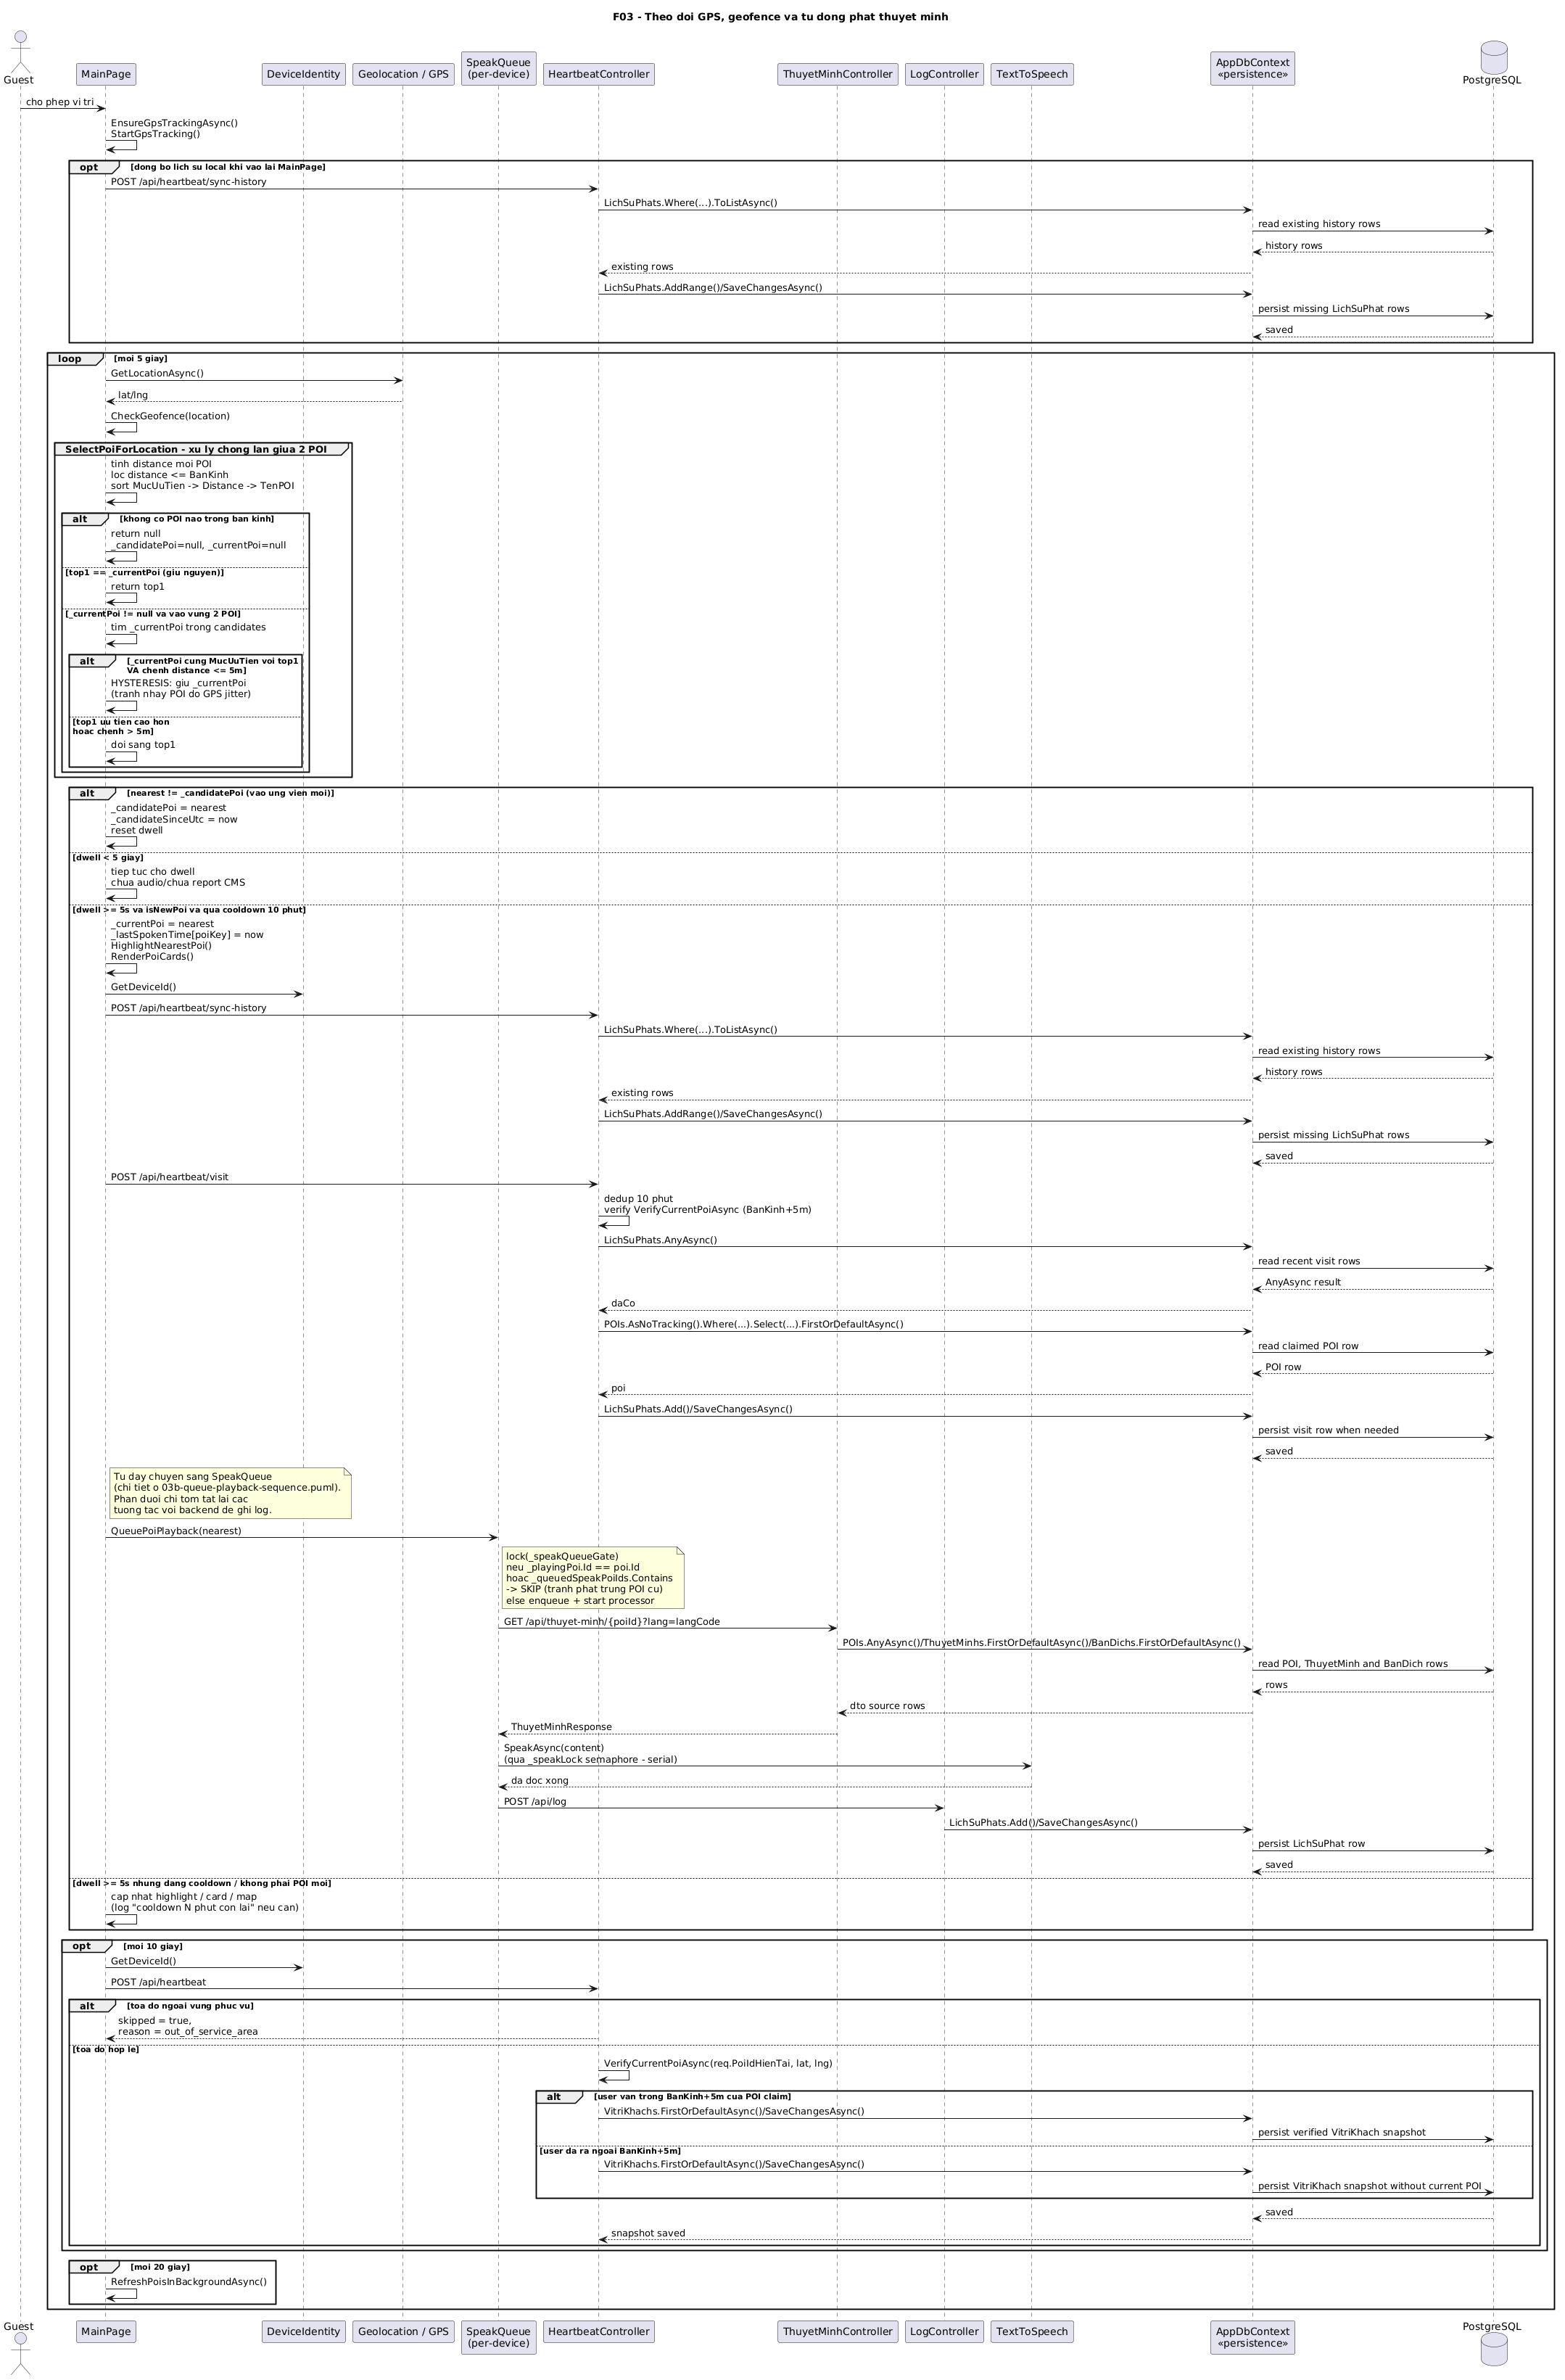
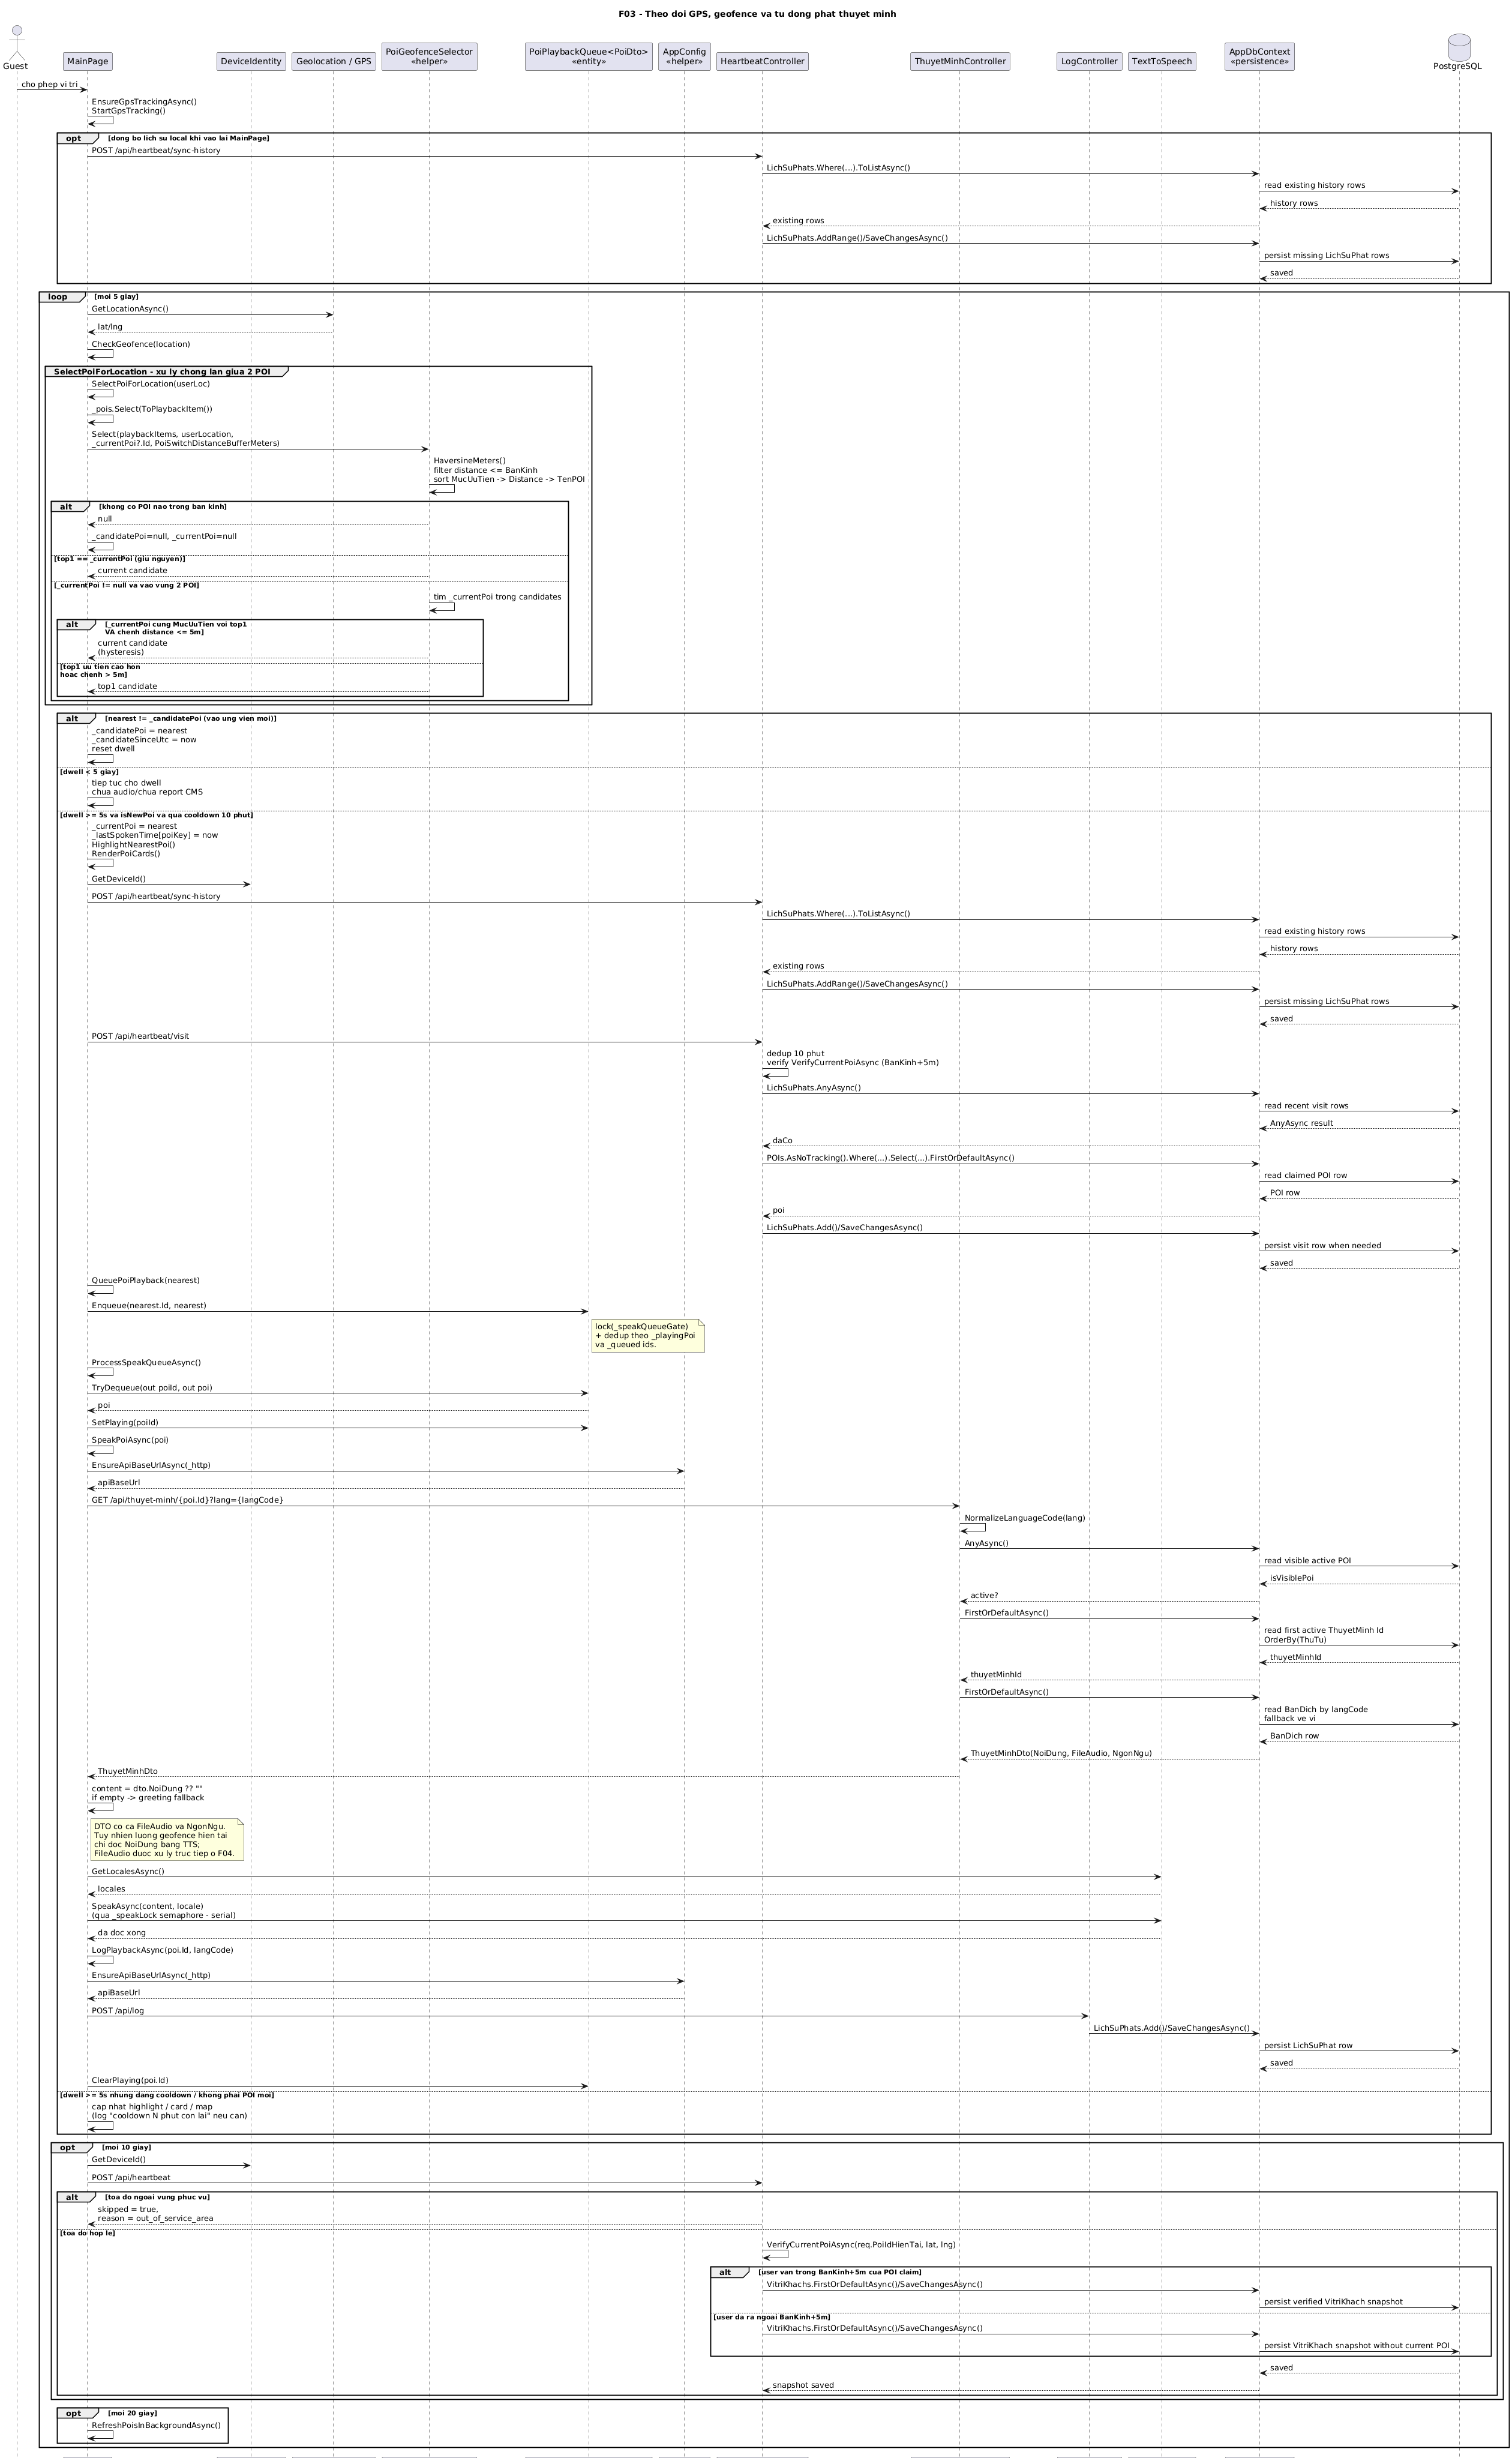
PRD

diff --git a/docs/gen_prd.py b/docs/gen_prd.py
@@ -32,6 +32,9 @@ OUT_DOCX = BASE_DIR / "PRD_VinhKhanhTour.docx"
 PRODUCT_VERSION = "1.5.3"
 DOC_VERSION = "2.3"
 DOC_DATE = datetime.now().strftime("%d/%m/%Y")
+STUDENT_NAME = "Võ Quốc Bảo"
+STUDENT_ID = "3123411031"
+STUDENT_CLASS = "DCT123C5"
 
 
 # ──────────────────────────────────────────────────────────────────────────────
@@ -498,37 +501,39 @@ FEATURES = [
     },
     {
         "id": "F03",
-        "title": "Theo dõi GPS, geofence và tự động phát thuyết minh",
-        "actor": "Khách du lịch",
+        "title": "Theo doi GPS, geofence va tu dong phat thuyet minh",
+        "actor": "Khach du lich",
         "status": "VERIFIED",
         "activity_image": "03-geofence-audio-activity.png",
         "sequence_image": "03-geofence-audio-sequence.png",
         "function_text": (
-            "Nhóm sơ đồ này mô tả phần lõi vận hành theo vị trí: lấy GPS, gửi heartbeat, xác định POI gần nhất, "
-            "ghi nhận visit và tự động phát thuyết minh khi người dùng đi vào vùng geofence. "
-            "Bao gồm xử lý đặc biệt khi khách đứng giữa 2 POI (sort theo MucUuTien → distance → tên + hysteresis 5m)."
+            "Nhom so do nay mo ta phan loi van hanh theo vi tri: lay GPS, gui heartbeat, xac dinh POI gan nhat, "
+            "ghi nhan visit va tu dong phat thuyet minh khi nguoi dung di vao vung geofence. "
+            "Bao gom xu ly dac biet khi khach dung giua 2 POI qua `PoiGeofenceSelector.Select()` (sort theo MucUuTien -> DistanceMeters -> TenPOI + hysteresis 5m)."
         ),
         "capabilities": [
-            "Lấy vị trí định kỳ và cập nhật trạng thái người dùng trên bản đồ.",
-            "Gửi heartbeat vị trí về server để CMS biết thiết bị nào đang online.",
-            "Xác định geofence theo bán kính từng POI và chống phát lặp bằng cooldown 10 phút.",
-            "Hysteresis 5m + dwell 5s tránh nháy POI khi GPS jitter giữa 2 quán liền kề.",
-            "Tự động đọc nội dung thuyết minh và ghi log phát audio.",
+            "Lay vi tri dinh ky va cap nhat trang thai nguoi dung tren ban do." ,
+            "Gui heartbeat vi tri ve server de CMS biet thiet bi nao dang online." ,
+            "Xac dinh geofence theo ban kinh tung POI va chong phat lap bang cooldown 10 phut." ,
+            "Hysteresis 5m + dwell 5s tranh nhay POI khi GPS jitter giua 2 quan lien ke; priority selection di qua `PoiGeofenceSelector.Select()`." ,
+            "Tu dong lay thuyet minh qua API, chon BanDich theo langCode, doc bang TTS va ghi log phat audio." ,
         ],
         "implementation": [
             ["UI (boundary)", "`MainPage.xaml` (GPS status, map WebView, now-playing banner, POI highlight)."],
-            ["Page/Control", "`EnsureGpsTrackingAsync`, `StartGpsTracking`, `CheckGeofence`, `SelectPoiForLocation`, `QueuePoiPlayback`, `ProcessSpeakQueueAsync`, `SpeakPoiAsync`, `SendHeartbeatAsync`, `RecordPoiVisitAsync`, `LogPlaybackAsync`."],
-            ["Domain/helper", "`Location.CalculateDistance`, `_lastSpokenTime`, `_speakQueue`, `_queuedSpeakPoiIds`, `_speakLock`, `AppText.LanguageCode`, `TextToSpeech.Default`."],
+            ["Page/Control", "`EnsureGpsTrackingAsync`, `StartGpsTracking`, `CheckGeofence`, `SelectPoiForLocation`, `ToPlaybackItem`, `QueuePoiPlayback`, `ProcessSpeakQueueAsync`, `SpeakPoiAsync`, `SendHeartbeatAsync`, `RecordPoiVisitAsync`, `LogPlaybackAsync`."],
+            ["Domain/helper", "`PoiGeofenceSelector.Select`, `PoiPlaybackQueue<PoiDto>`, `_lastSpokenTime`, `_speakLock`, `AppText.LanguageCode`, `AppConfig.EnsureApiBaseUrlAsync`, `TextToSpeech.Default.GetLocalesAsync`."],
             ["Controller", "`HeartbeatController.SendHeartbeat`, `RecordVisit`, `ThuyetMinhController.GetByPoi`, `LogController.Post`."],
-            ["Persistence", "`Preferences` (visited ids) + `AppDbContext` -> PostgreSQL bảng `vitrikhach`, `lichsuphat`, `thuyetminh`, `bandich`."],
+            ["Persistence", "`Preferences` (visited ids) + `AppDbContext` -> PostgreSQL bang `vitrikhach`, `lichsuphat`, `thuyetminh`, `bandich`."],
         ],
         "operation": [
-            "MainPage gọi EnsureGpsTrackingAsync(), xin quyền vị trí và bắt đầu vòng lặp GPS.",
-            "App lấy vị trí mỗi 5 giây bằng Geolocation.Default.GetLocationAsync().",
-            "SelectPoiForLocation() sort candidate theo MucUuTien → DistanceMeters → TenPOI; nếu POI hiện tại cùng priority và chỉ chênh ≤ 5m thì giữ.",
-            "Heartbeat được gửi mỗi 10 giây dựa trên HEARTBEAT_EVERY_TICKS = 2; refresh POI nền mỗi 20 giây dựa trên POI_REFRESH_EVERY_TICKS = 4.",
-            "Khi phát hiện người dùng vừa đi vào một POI mới và đã qua cooldown, app ghi visited local, POST /api/heartbeat/sync-history, POST /api/heartbeat/visit rồi cập nhật UI.",
-            "Sau đó app lấy thuyết minh qua /api/thuyet-minh/{poiId}, đọc bằng TTS và POST /api/log để lưu lịch sử phát.",
+            "MainPage goi EnsureGpsTrackingAsync(), xin quyen vi tri va bat dau vong lap GPS." ,
+            "App lay vi tri moi 5 giay bang Geolocation.Default.GetLocationAsync()." ,
+            "SelectPoiForLocation() chuyen `_pois` thanh `PoiPlaybackItem`, roi `PoiGeofenceSelector.Select()` tinh `HaversineMeters`, loc POI co `distance <= BanKinh`, sort theo `MucUuTien -> DistanceMeters -> TenPOI`; neu POI hien tai cung priority va chi chenh <= 5m thi giu bang hysteresis." ,
+            "Heartbeat duoc gui moi 10 giay dua tren HEARTBEAT_EVERY_TICKS = 2; refresh POI nen moi 20 giay dua tren POI_REFRESH_EVERY_TICKS = 4." ,
+            "Khi phat hien nguoi dung vua di vao mot POI moi va da qua cooldown, app ghi visited local, POST /api/heartbeat/sync-history, POST /api/heartbeat/visit roi cap nhat UI." ,
+            "Sau do `SpeakPoiAsync()` lay `langCode = AppText.LanguageCode`, goi `AppConfig.EnsureApiBaseUrlAsync()`, roi GET `/api/thuyet-minh/{poiId}?lang={langCode}`. API chuan hoa ngon ngu, kiem tra POI con hoat dong, lay `ThuyetMinh` dau tien dang bat theo `ThuTu`, roi lay `BanDich` uu tien `langCode` va fallback ve `vi`." ,
+            "App dung `ThuyetMinhResponse.NoiDung` de phat bang `TextToSpeech.Default.SpeakAsync()`. Neu `NoiDung` rong thi dung cau chao fallback theo ngon ngu. Truong `FileAudio` co duoc tra ve nhung luong geofence hien chua dung; phat file audio truc tiep nam o F04." ,
+            "Sau khi doc xong, app goi `LogPlaybackAsync()` de POST `/api/log` voi `Nguon = GPS`." ,
         ],
     },
     {
@@ -940,6 +945,9 @@ def build_cover(doc):
               [
                   ["Sản phẩm", f"VinhKhanhTour v{PRODUCT_VERSION}"],
                   ["Tài liệu", f"PRD v{DOC_VERSION}"],
+                  ["Sinh viên", STUDENT_NAME],
+                  ["Mã số sinh viên", STUDENT_ID],
+                  ["Lớp", STUDENT_CLASS],
                   ["Ngày phát hành", DOC_DATE],
                   ["Phạm vi", "MAUI App + REST API + CMS Razor Pages"],
                   ["Nguồn sơ đồ", "docs/diagrams/*.puml (PlantUML)"],

diff --git a/docs/diagrams/render_plantuml.py b/docs/diagrams/render_plantuml.py
@@ -1,0 +1,16 @@
+import zlib
+import base64
+from pathlib import Path
+import urllib.request
+
+puml_path = Path('docs/diagrams/03-geofence-audio-sequence.puml')
+output_path = Path('docs/diagrams/03-geofence-audio-sequence.png')
+text = puml_path.read_text(encoding='utf-8')
+compressed = zlib.compress(text.encode('utf-8'), 9)[2:-4]
+encoded = base64.b64encode(compressed).decode('ascii').translate(str.maketrans('+/=', '-_.'))
+url = 'https://www.plantuml.com/plantuml/png/' + encoded
+print('Requesting:', url)
+with urllib.request.urlopen(url, timeout=30) as response:
+    data = response.read()
+output_path.write_bytes(data)
+print('Saved', output_path)

diff --git a/docs/PRD_VinhKhanhTour.md b/docs/PRD_VinhKhanhTour.md
@@ -2,6 +2,8 @@
 
 > **Phiên bản:** 1.5 | **Ngày:** 14/05/2026
 >
+> **Sinh viên:** Võ Quốc Bảo | **Mã số sinh viên:** 3123411031 | **Lớp:** DCT123C5
+>
 > **Lưu ý phiên bản 1.5:** Bổ sung mục báo cáo kiểm thử tự động sau khi chạy `scripts/run-all-tests.ps1` ngày 14/05/2026: API integration, CMS Playwright E2E và MAUI Appium contract đều pass; Appium real-device được ghi nhận là opt-in và đang skip khi chưa bật emulator/device.
 >
 > **Lưu ý phiên bản 1.4:** Đồng bộ PRD với baseline kiểm thử mới: solution có thư mục `tests/`, API/CMS hỗ trợ `WebApplicationFactory<Program>` qua `public partial class Program`, bổ sung smoke test cho API/CMS/MAUI Appium và script `scripts/run-all-tests.ps1`.
@@ -211,38 +213,41 @@ taikhoan ── hoadon
 
 ---
 
-### F03 – Tự động phát thuyết minh (Geofence + Audio)
+### F03 - Tu dong phat thuyet minh (Geofence + Audio)
 
-**Mô tả:** Khi khách bước vào vùng bán kính của quán và đứng đủ thời gian xác nhận, app tự động đưa POI vào hàng đợi phát thuyết minh.
+**Mo ta:** Khi khach buoc vao vung ban kinh cua quan va dung du thoi gian xac nhan, app tu dong dua POI vao hang doi phat thuyet minh.
 **Diagrams:** `docs/diagrams/03-geofence-audio-activity.puml`, `03-geofence-audio-sequence.puml`; sub-flow queue: `03b-queue-playback-activity.puml`, `03b-queue-playback-sequence.puml`.
 
-**Phân lớp triển khai:**
+**Phan lop trien khai:**
 
-| Lớp | Thành phần |
+| Lop | Thanh phan |
 |---|---|
 | UI (boundary) | `MainPage.xaml` (GPS status, map WebView, now-playing banner, POI highlight) |
-| Page/Control | `EnsureGpsTrackingAsync`, `StartGpsTracking`, `CheckGeofence`, `SelectPoiForLocation`, `QueuePoiPlayback`, `ProcessSpeakQueueAsync`, `SpeakPoiAsync`, `SendHeartbeatAsync`, `RecordPoiVisitAsync`, `LogPlaybackAsync` |
-| Domain/helper | `Location.CalculateDistance`, `_lastSpokenTime`, `_speakQueue`, `_queuedSpeakPoiIds`, `_speakLock`, `AppText.LanguageCode`, `TextToSpeech.Default` |
+| Page/Control | `EnsureGpsTrackingAsync`, `StartGpsTracking`, `CheckGeofence`, `SelectPoiForLocation`, `ToPlaybackItem`, `QueuePoiPlayback`, `ProcessSpeakQueueAsync`, `SpeakPoiAsync`, `SendHeartbeatAsync`, `RecordPoiVisitAsync`, `LogPlaybackAsync` |
+| Domain/helper | `PoiGeofenceSelector.Select`, `PoiPlaybackQueue<PoiDto>`, `_lastSpokenTime`, `_speakLock`, `AppText.LanguageCode`, `AppConfig.EnsureApiBaseUrlAsync`, `TextToSpeech.Default.GetLocalesAsync` |
 | Controller (control) | `HeartbeatController.SendHeartbeat` (`POST /api/heartbeat`), `RecordVisit` (`POST /api/heartbeat/visit`), `ThuyetMinhController.GetByPoi`, `LogController.Post` (`POST /api/log`) |
-| Persistence | `Preferences` (visited ids) + `AppDbContext` → PostgreSQL bảng `vitrikhach`, `lichsuphat`, `thuyetminh`, `bandich` |
+| Persistence | `Preferences` (visited ids) + `AppDbContext` -> PostgreSQL bang `vitrikhach`, `lichsuphat`, `thuyetminh`, `bandich` |
 
-**Luồng geofence:**
-1. `EnsureGpsTrackingAsync()` xin `Permissions.LocationWhenInUse`, sau đó gọi `StartGpsTracking()`.
-2. `StartGpsTracking()` lấy GPS mỗi 5 giây bằng `Geolocation.Default.GetLocationAsync()`.
-3. `CheckGeofence()` gọi `SelectPoiForLocation()` để chọn candidate trong bán kính, ưu tiên `MucUuTien`, sau đó khoảng cách và tên.
-4. POI phải dwell đủ `DwellSecondsToConfirm` trước khi được commit thành `_currentPoi`.
-5. Nếu là POI mới và qua cooldown, app ghi visited local, gọi `RecordPoiVisitAsync()`, cập nhật UI và `QueuePoiPlayback()`.
-6. `ProcessSpeakQueueAsync()` gọi `SpeakPoiAsync()` tuần tự; `SpeakPoiAsync()` lấy nội dung qua `/api/thuyet-minh/{poiId}?lang=...`, đọc TTS và gọi `LogPlaybackAsync()`.
+**Luong geofence:**
+1. `EnsureGpsTrackingAsync()` xin `Permissions.LocationWhenInUse`, sau do goi `StartGpsTracking()`.
+2. `StartGpsTracking()` lay GPS moi 5 giay bang `Geolocation.Default.GetLocationAsync()`.
+3. `CheckGeofence()` goi `SelectPoiForLocation()`. Ham nay chuyen `_pois` thanh `PoiPlaybackItem`, roi `PoiGeofenceSelector.Select()` tinh `HaversineMeters`, loc cac POI co `distance <= BanKinh`, sau do sort theo `MucUuTien -> DistanceMeters -> TenPOI`.
+4. POI phai dwell du `DwellSecondsToConfirm` truoc khi duoc commit thanh `_currentPoi`.
+5. Neu la POI moi va qua cooldown, app ghi visited local, goi `RecordPoiVisitAsync()`, cap nhat UI va `QueuePoiPlayback()`.
+6. `ProcessSpeakQueueAsync()` goi `SpeakPoiAsync()` tuan tu; `SpeakPoiAsync()` lay `langCode = AppText.LanguageCode`, goi `AppConfig.EnsureApiBaseUrlAsync()`, roi GET `/api/thuyet-minh/{poiId}?lang={langCode}`.
+7. `ThuyetMinhController.GetByPoi()` chuan hoa `lang`, kiem tra POI con hoat dong, lay `ThuyetMinh` dau tien dang bat theo `ThuTu`, roi lay `BanDich` uu tien `langCode` va fallback ve `vi`. DTO tra ve gom `NoiDung`, `FileAudio`, `NgonNgu`.
+8. Luong geofence hien dung `NoiDung` de phat bang `TextToSpeech.Default.SpeakAsync()`. Neu `NoiDung` rong, app dung cau chao fallback theo ngon ngu. Truong `FileAudio` chua duoc phat truc tiep o F03; phan do thuoc F04.
+9. Sau khi doc xong, app goi `LogPlaybackAsync()` de POST `/api/log`.
 
 **Heartbeat GPS:**
-- `SendHeartbeatAsync()` gửi `POST /api/heartbeat` với `{MaThietBi, Lat, Lng, PoiIdHienTai, TenPoiHienTai}` theo chu kỳ tick của GPS.
-- Server `VerifyCurrentPoiAsync()` re-check tọa độ nằm trong `BanKinh + 5m` trước khi tin POI app báo.
-- `RecordVisit` dedup server trong 10 phút cho cùng thiết bị/POI.
+- `SendHeartbeatAsync()` gui `POST /api/heartbeat` voi `{MaThietBi, Lat, Lng, PoiIdHienTai, TenPoiHienTai}` theo chu ky tick cua GPS.
+- Server `VerifyCurrentPoiAsync()` re-check toa do nam trong `BanKinh + 5m` truoc khi tin POI app bao.
+- `RecordVisit` dedup server trong 10 phut cho cung thiet bi/POI.
 
-**Quy tắc nghiệp vụ chính:**
-- Cooldown audio 10 phút/POI trên app bằng `_lastSpokenTime`.
-- Hysteresis giữ POI hiện tại khi hai POI sát nhau, cùng `MucUuTien` và chênh khoảng cách nhỏ, tránh nháy do GPS jitter.
-- Hàng đợi audio chống trùng bằng 3 lớp: `_playingPoi`, `_queuedSpeakPoiIds`, `_speakLock`.
+**Quy tac nghiep vu chinh:**
+- Cooldown audio 10 phut/POI tren app bang `_lastSpokenTime`.
+- Hysteresis giu POI hien tai khi hai POI sat nhau, cung `MucUuTien` va chenh khoang cach `<= 5m`, tranh nhay do GPS jitter.
+- Hang doi audio chong trung bang 3 lop: `_playingPoi`, `_queuedSpeakPoiIds`, `_speakLock`.
 
 ---
 